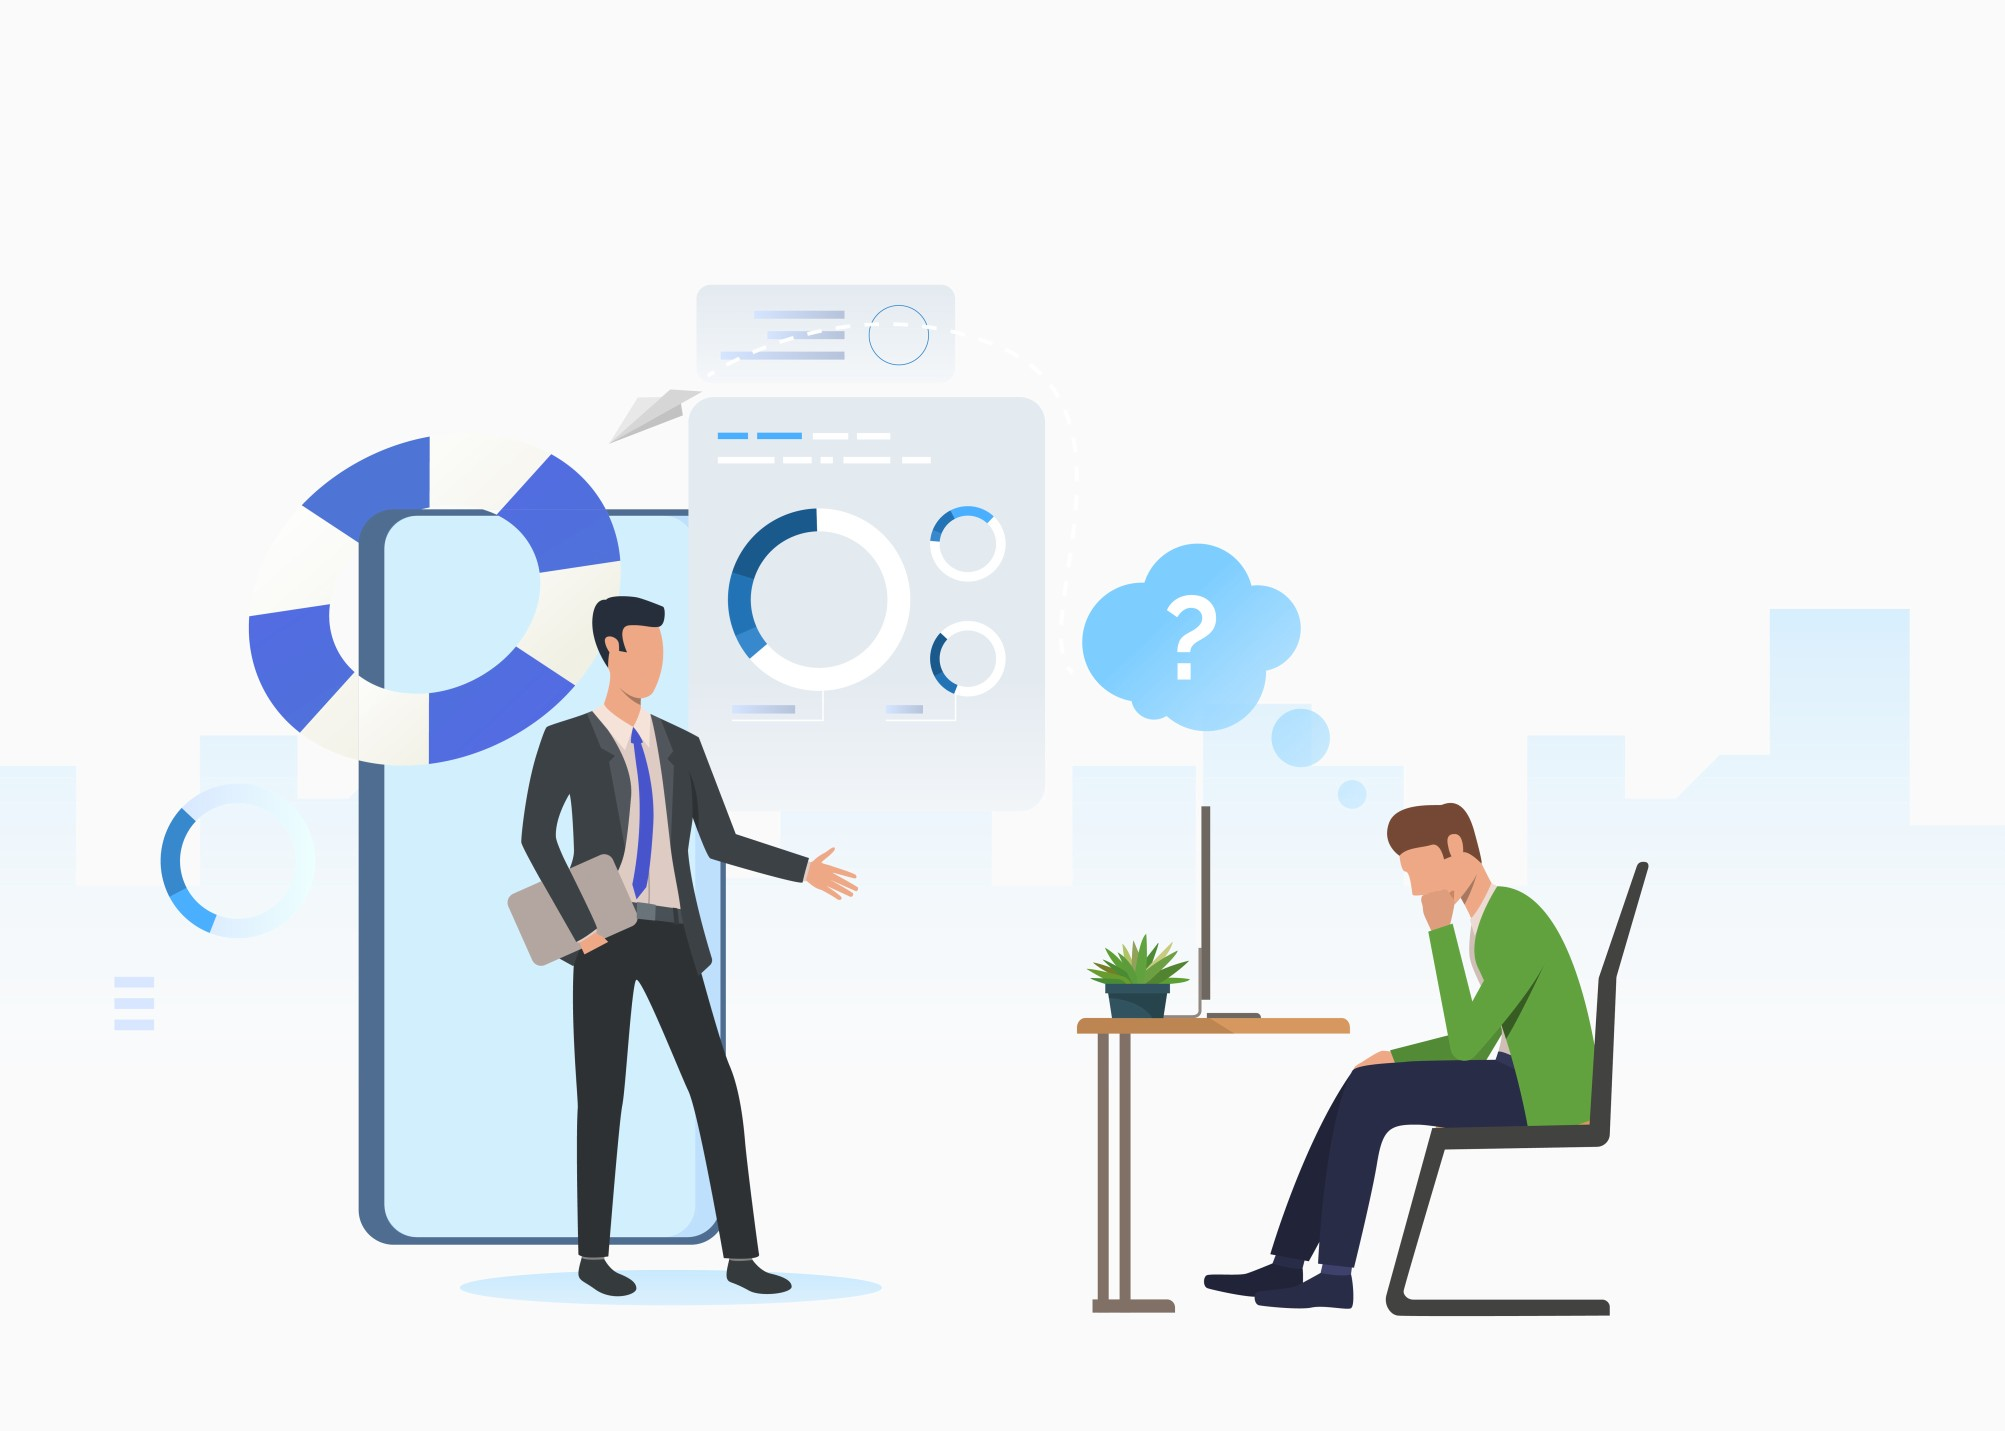
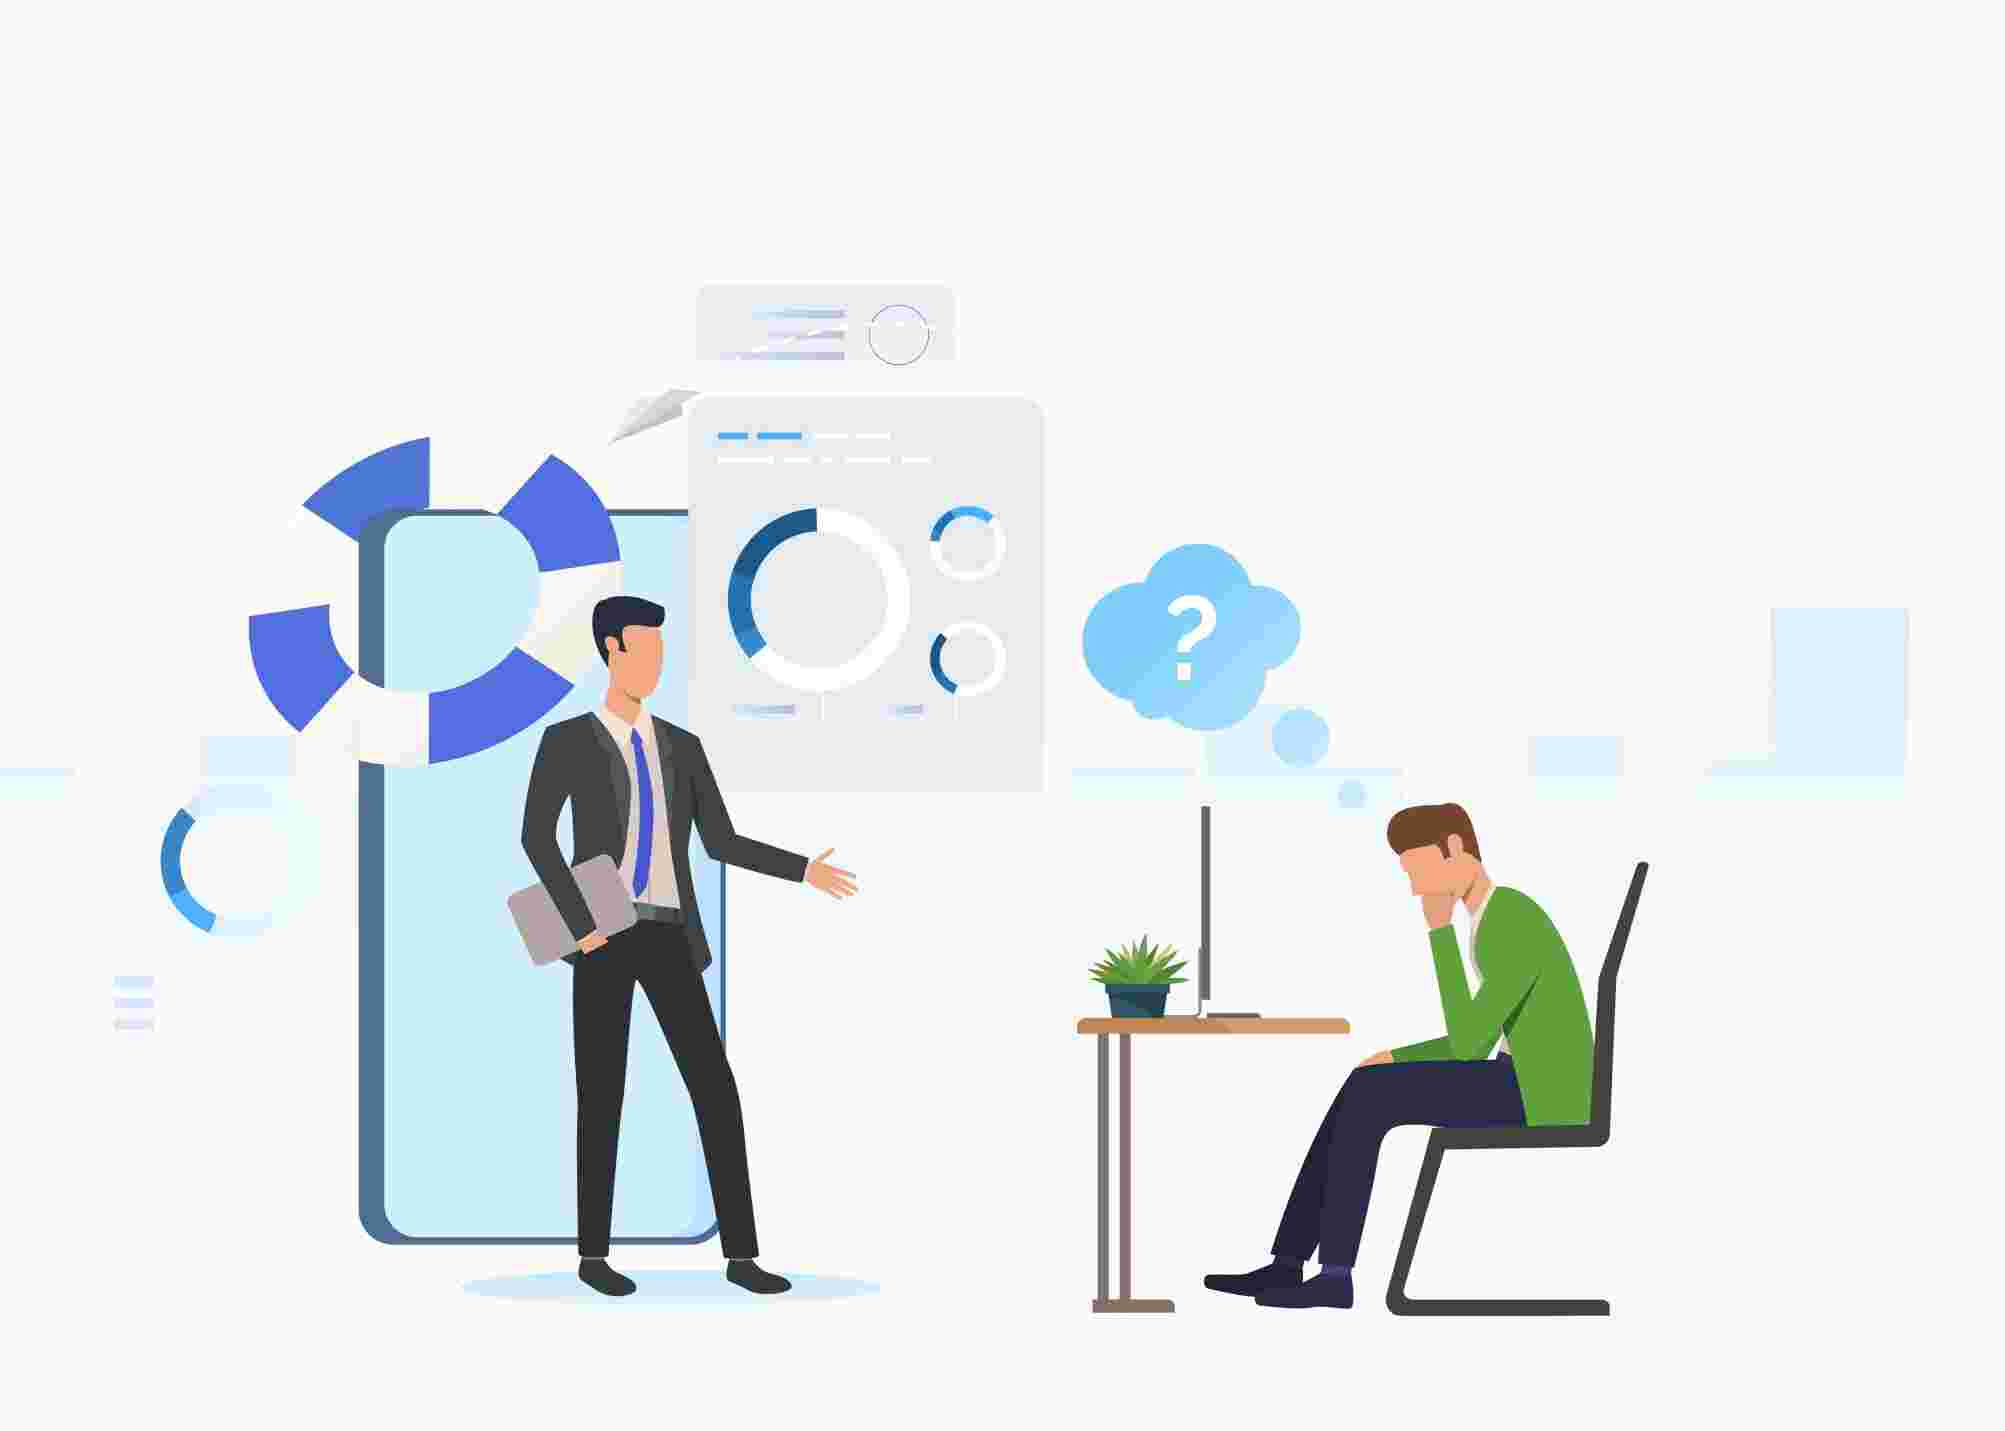
resize images

diff --git a/frontend/src/Pages/Team/MembersList.js b/frontend/src/Pages/Team/MembersList.js
@@ -55,7 +55,7 @@ export const executiveMembers = [{
     }
 ];
 
-export const firstYears = [{
+export const webTeam = [{
         id: 1,
         name: "Aditya Anil Kumar",
         designation: "Webmaster",
@@ -75,29 +75,31 @@ export const firstYears = [{
     },
     {
         id: 4,
-        name: "Arti Bhatia",
-        designation: "Member",
-        imageUrl: require("../../Assets/team/arti.jpg"),
-    },
-    {
-        id: 5,
-        name: "Jagath Jijo",
-        designation: "Member",
-        imageUrl: require("../../Assets/team/jagath.jpg"),
-    },
-];
-
-
-export const secondYears = [{
-        id: 1,
         name: "Meenakshi",
         designation: "Member",
         imageUrl: require("../../Assets/team/meenakshi.jpg"),
     },
     {
-        id: 2,
+        id: 5,
         name: "Ameen",
         designation: "Member",
         imageUrl: require("../../Assets/team/ameen.jpg"),
     },
+    {
+        id: 6,
+        name: "Arti Bhatia",
+        designation: "Member",
+        imageUrl: require("../../Assets/team/arti.jpg"),
+    },
+    {
+        id: 7,
+        name: "Jagath Jijo",
+        designation: "Member",
+        imageUrl: require("../../Assets/team/jagath.jpg"),
+    },
+
+];
+
+
+export const secondYears = [
 ]

diff --git a/frontend/src/Pages/Team/TeamPage.jsx b/frontend/src/Pages/Team/TeamPage.jsx
@@ -1,5 +1,5 @@
 import React from 'react'
-import { executiveMembers, secondYears, firstYears } from './MembersList'
+import { executiveMembers, webTeam } from './MembersList'
 import './TeamPage.styles.css'
 import Card from './Card'
 const TeamPage = () => {
@@ -35,15 +35,8 @@ const TeamPage = () => {
             <br />
             <h2 className="title center-align bold">WEB TEAM</h2>
             <h3 className="grey-text center-align">Second Years</h3>
-            <div className="row  grid-container" id="second-years-list">
-               {secondYears.map(({ id, ...otherProps }) => (
-                  <Card key={id} {...otherProps} />
-               ))}
-            </div>
-            <br />
-            <h3 className="grey-text center-align">First Years</h3>
-            <div className="row  grid-container" id="first-years-list">
-               {firstYears.map(({ id, ...otherProps }) => (
+            <div className="row  grid-container" id="web-team-list">
+               {webTeam.map(({ id, ...otherProps }) => (
                   <Card key={id} {...otherProps} />
                ))}
             </div>

diff --git a/frontend/src/components/Home.jsx b/frontend/src/components/Home.jsx
@@ -1,6 +1,6 @@
 import React, { Component } from "react";
 import "../index.css";
-import MainSvg from "../Assets/head.png";
+import MainSvg from "../Assets/head.jpg";
 import IEDC from "../Assets/logo.png";
 import "materialize-css/dist/css/materialize.min.css";
 // import axios from 'axios';
@@ -36,14 +36,14 @@ class Home extends Component{
         <section
           className="home main_img"
           id="box_curve_bottom"
-          style={{ "background-color": "white", "background-image": `url(${MainSvg})` }}
+          style={{ "background-color": "white" }}
         >
           <div className="container" id="home" style={{ color: "rgb(223, 218, 218)" }}>
             <div className="row">
               <div className="col s12 m6">
                 <div
                   className="iedc_img"
-                  style={{ "background-image": `url(${IEDC})`, "height": "15vh", "width":"50vh" }}
+                  style={{ "background-image": `url(${IEDC})`}}
                 />
               </div>
               <a target="_blank" href='https://www.freepik.es/fotos-vectores-gratis/fondo'></a>

diff --git a/frontend/src/index.css b/frontend/src/index.css
@@ -75,13 +75,14 @@ p{
   background-size: cover;
   background-position: bottom;
   background-blend-mode: multiply;
+  background-image: url("./Assets/head.jpg")
 }
 
 .iedc_img{
   margin-top:5em;
   background-repeat:no-repeat;
-  height:100%;
-  width:100%;
+  height:15vh;
+  max-width: auto;
 }
 
 #about_img {
@@ -197,6 +198,9 @@ form input[type=submit]:active{
     border-bottom-left-radius: 10%;
     border-bottom-right-radius: 10%;
   }
+  .iedc_img {
+    display: none;
+  }
 
   #box_curve_top {
     border-top-left-radius: 10%;
@@ -205,6 +209,7 @@ form input[type=submit]:active{
   }
   #centre_mobile {
     text-align: left;
+    margin-left: 30%;
   }
   .mobile_space {
     margin-bottom: 0px;
@@ -224,7 +229,7 @@ form input[type=submit]:active{
     padding-left:0;
     margin-top:0;
   }
-
-
-
+  .main_img {
+    background-image: none;
+  }
 }

diff --git a/frontend/src/components/Team.jsx b/frontend/src/components/Team.jsx
@@ -4,26 +4,6 @@ import "../index.css";
 
 class Team extends Component {
 	render() {
-
-		// let data = [
-		// 	{
-		// 		des: "John Doe",
-		// 		imgSrc: `${require('../Assets/sample.jpeg')}`
-		// 	},
-		// 	{
-		// 		des: "Lynn Mathew",
-		// 		imgSrc: `${require('../Assets/s2.jpeg')}`
-		// 	},
-		// 	{
-		// 		des: "3",
-		// 		imgSrc: `${require('../Assets/gallery5.png')}`
-		// 	},
-		// 	{
-		// 		des: "Tony Stark",
-		// 		imgSrc: `${require('../Assets/TS.jpeg')}`
-		// 	},
-		// ];
-
 		let textBoxStyle = {
 			width: "99%",
 			background: '#C33427',
